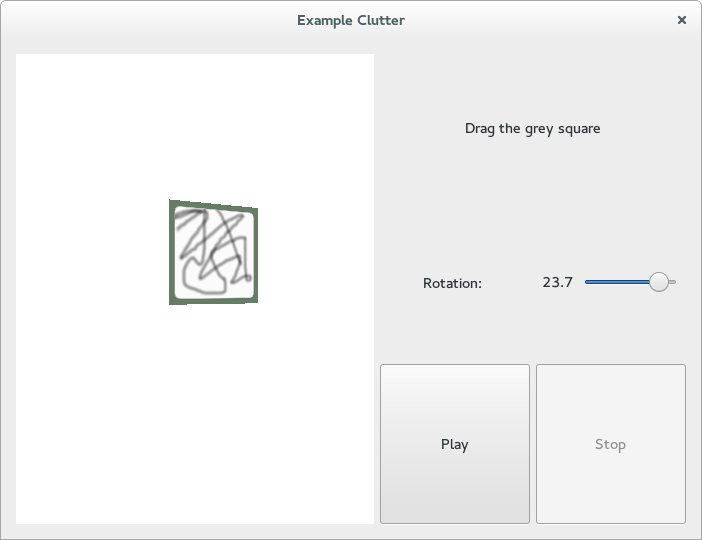
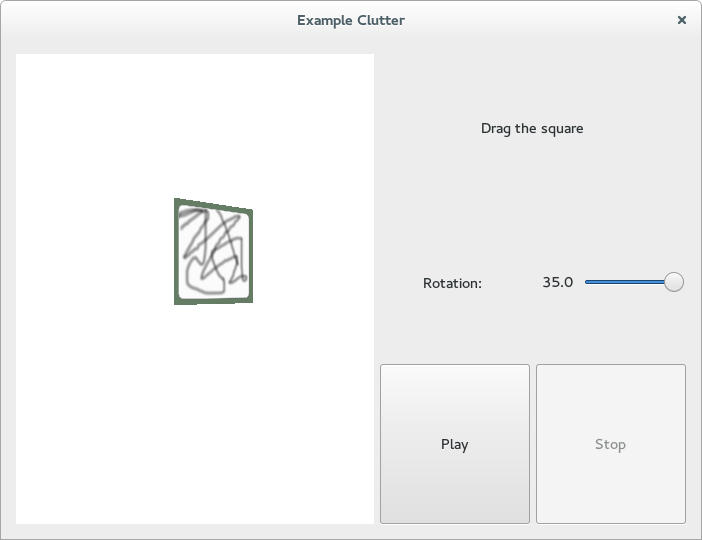
Fixed typo

diff --git a/egClutter.js b/egClutter.js
@@ -88,7 +88,7 @@ App.prototype.buildBody = function() {
     embed = new GtkClutter.Embed();
     embed.set_size_request(320, 240);
 
-    this.position = new Gtk.Label({ label: 'Drag the grey square' });
+    this.position = new Gtk.Label({ label: 'Drag the square' });
     this.position.set_size_request(300, -1);
 
     titleRotate = new Gtk.Label({ label: 'Rotation: ' });
